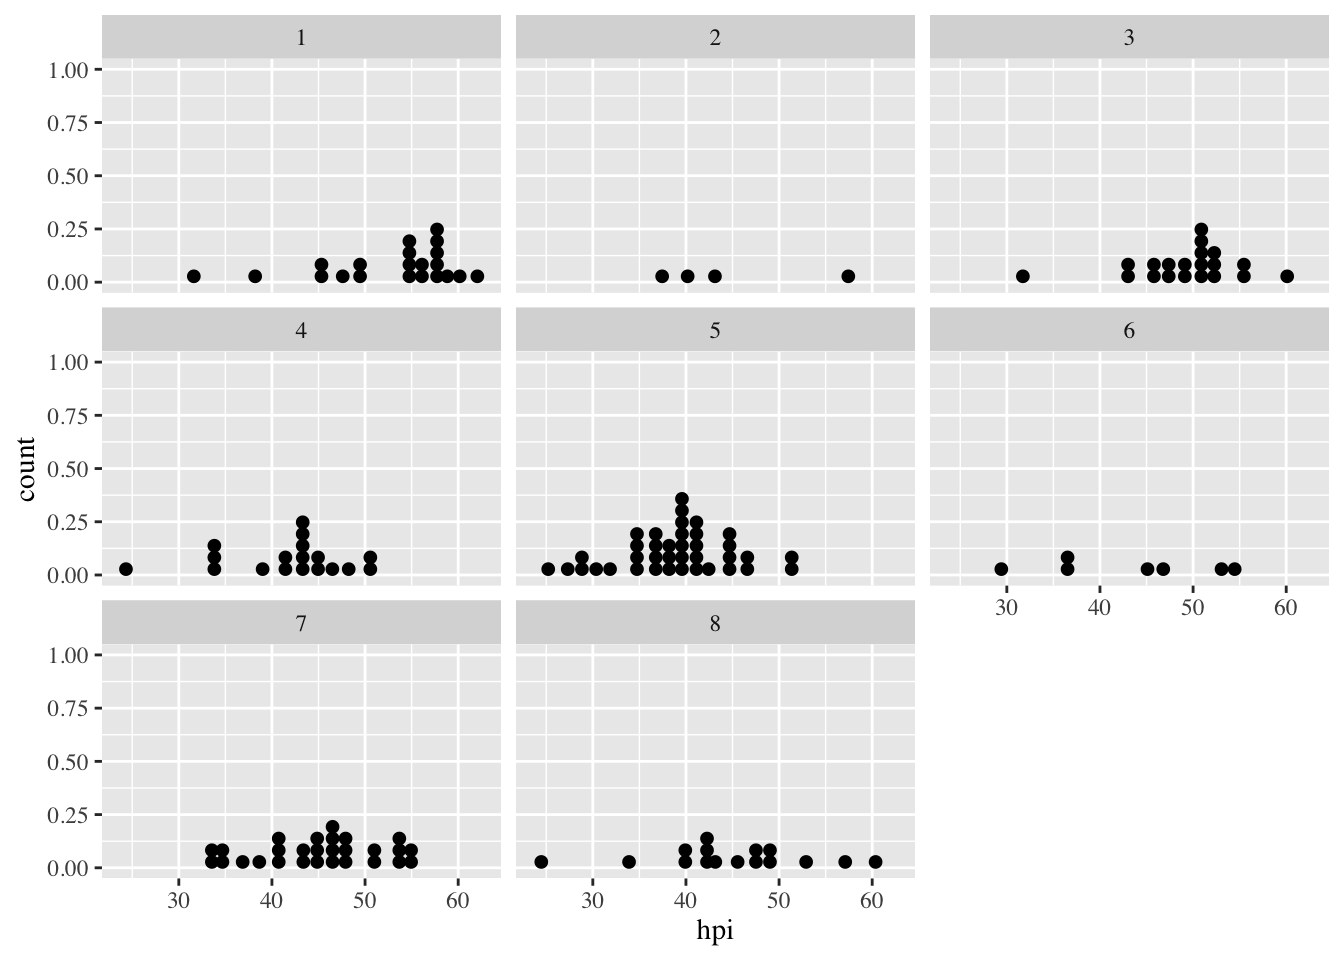
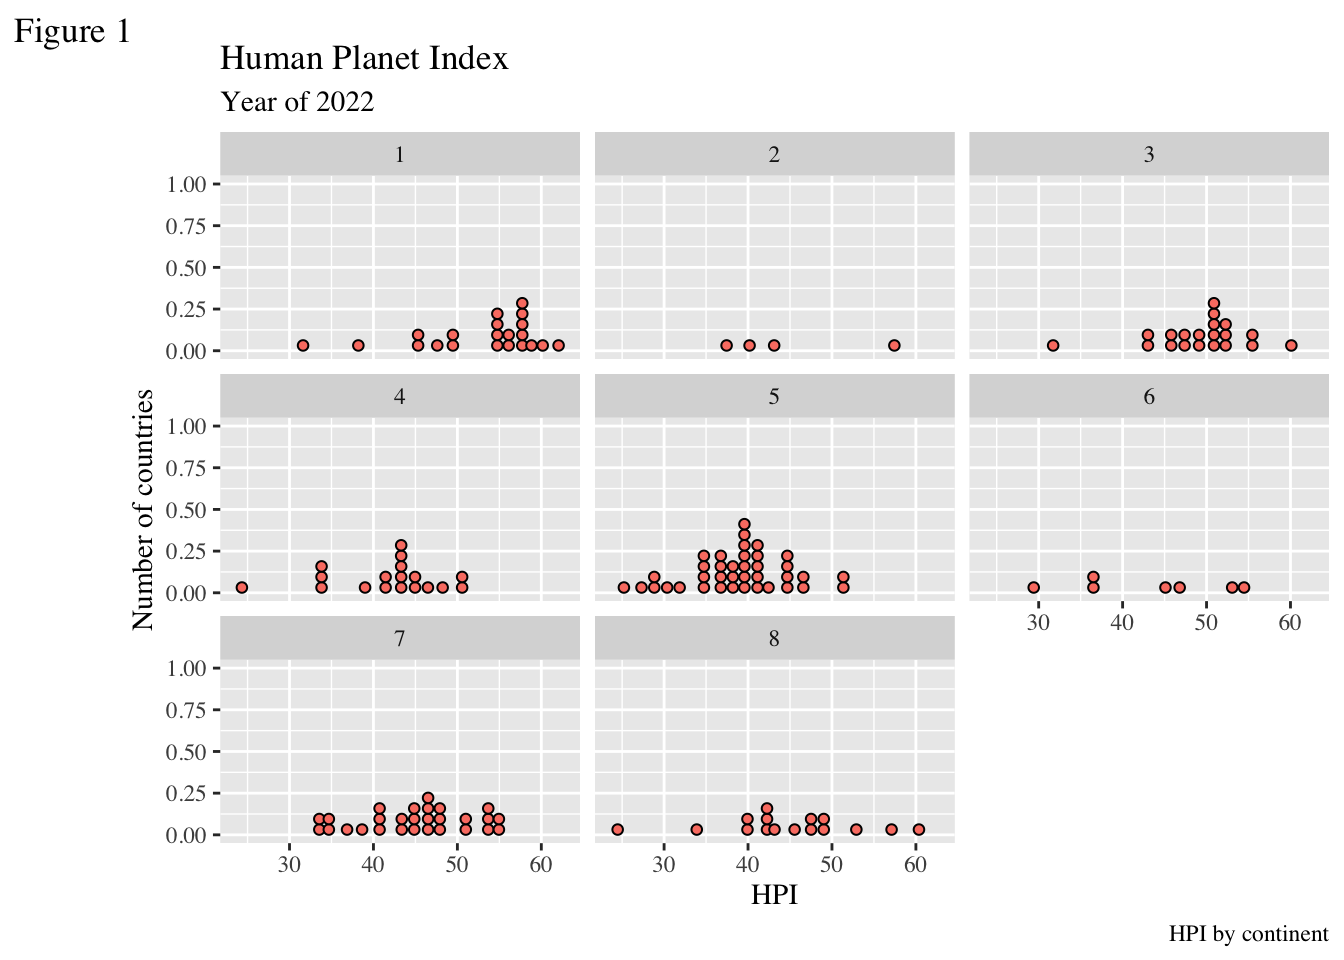
added Lizzie's additions to the edited graphs of Assignment04

diff --git a/assignment04.html b/assignment04.html
@@ -317,9 +317,18 @@ code span.wa { color: #60a0b0; font-weight: bold; font-style: italic; } /* Warni
 <span id="cb16-2"><a href="#cb16-2" aria-hidden="true" tabindex="-1"></a><span class="fu">loadfonts</span>()</span>
 <span id="cb16-3"><a href="#cb16-3" aria-hidden="true" tabindex="-1"></a></span>
 <span id="cb16-4"><a href="#cb16-4" aria-hidden="true" tabindex="-1"></a><span class="fu">ggplot</span>(hpi) <span class="sc">+</span> </span>
-<span id="cb16-5"><a href="#cb16-5" aria-hidden="true" tabindex="-1"></a>  <span class="fu">geom_dotplot</span>(<span class="fu">aes</span>(<span class="at">x=</span>hpi)) <span class="sc">+</span> </span>
-<span id="cb16-6"><a href="#cb16-6" aria-hidden="true" tabindex="-1"></a>  <span class="fu">facet_wrap</span>(<span class="fu">vars</span>(continent)) <span class="sc">+</span> </span>
-<span id="cb16-7"><a href="#cb16-7" aria-hidden="true" tabindex="-1"></a>  <span class="fu">theme</span>(<span class="at">text =</span> <span class="fu">element_text</span>(<span class="at">family=</span><span class="st">"Times"</span>))</span></code><button title="Copy to Clipboard" class="code-copy-button"><i class="bi"></i></button></pre></div>
+<span id="cb16-5"><a href="#cb16-5" aria-hidden="true" tabindex="-1"></a>  <span class="fu">geom_dotplot</span>(<span class="fu">aes</span>(<span class="at">x=</span>hpi),</span>
+<span id="cb16-6"><a href="#cb16-6" aria-hidden="true" tabindex="-1"></a>               <span class="at">color =</span> <span class="st">"black"</span>,</span>
+<span id="cb16-7"><a href="#cb16-7" aria-hidden="true" tabindex="-1"></a>               <span class="at">fill =</span> <span class="st">"salmon"</span>) <span class="sc">+</span> </span>
+<span id="cb16-8"><a href="#cb16-8" aria-hidden="true" tabindex="-1"></a>  <span class="fu">facet_wrap</span>(<span class="fu">vars</span>(continent)) <span class="sc">+</span> </span>
+<span id="cb16-9"><a href="#cb16-9" aria-hidden="true" tabindex="-1"></a>  <span class="fu">theme</span>(<span class="at">text =</span> <span class="fu">element_text</span>(<span class="at">family=</span><span class="st">"Times"</span>)) <span class="sc">+</span></span>
+<span id="cb16-10"><a href="#cb16-10" aria-hidden="true" tabindex="-1"></a>  <span class="fu">labs</span>(<span class="at">title =</span> <span class="st">"Human Planet Index"</span>,</span>
+<span id="cb16-11"><a href="#cb16-11" aria-hidden="true" tabindex="-1"></a>       <span class="at">subtitle =</span> <span class="st">"Year of 2022"</span>,</span>
+<span id="cb16-12"><a href="#cb16-12" aria-hidden="true" tabindex="-1"></a>       <span class="at">caption =</span> <span class="st">"HPI by continent"</span>,</span>
+<span id="cb16-13"><a href="#cb16-13" aria-hidden="true" tabindex="-1"></a>       <span class="at">tag =</span> <span class="st">"Figure 1"</span>,</span>
+<span id="cb16-14"><a href="#cb16-14" aria-hidden="true" tabindex="-1"></a>       <span class="at">x =</span> <span class="st">"HPI"</span>,</span>
+<span id="cb16-15"><a href="#cb16-15" aria-hidden="true" tabindex="-1"></a>       <span class="at">y =</span> <span class="st">"Number of countries"</span>,</span>
+<span id="cb16-16"><a href="#cb16-16" aria-hidden="true" tabindex="-1"></a>       <span class="at">colour =</span> <span class="st">"GrandBudapest"</span>)</span></code><button title="Copy to Clipboard" class="code-copy-button"><i class="bi"></i></button></pre></div>
 <div class="cell-output cell-output-stderr">
 <pre><code>Bin width defaults to 1/30 of the range of the data. Pick better value with `binwidth`.</code></pre>
 </div>
@@ -328,17 +337,23 @@ code span.wa { color: #60a0b0; font-weight: bold; font-style: italic; } /* Warni
 </div>
 <div class="sourceCode cell-code" id="cb18"><pre class="sourceCode r code-with-copy"><code class="sourceCode r"><span id="cb18-1"><a href="#cb18-1" aria-hidden="true" tabindex="-1"></a><span class="fu">ggplot</span>(test) <span class="sc">+</span> </span>
 <span id="cb18-2"><a href="#cb18-2" aria-hidden="true" tabindex="-1"></a>  <span class="fu">geom_histogram</span>(<span class="fu">aes</span>(<span class="at">x=</span>height), </span>
-<span id="cb18-3"><a href="#cb18-3" aria-hidden="true" tabindex="-1"></a>                 <span class="at">color=</span><span class="st">'steelblue4'</span>, </span>
-<span id="cb18-4"><a href="#cb18-4" aria-hidden="true" tabindex="-1"></a>                 <span class="at">fill=</span><span class="st">'steelblue3'</span>, </span>
+<span id="cb18-3"><a href="#cb18-3" aria-hidden="true" tabindex="-1"></a>                 <span class="at">color=</span><span class="st">'black'</span>, </span>
+<span id="cb18-4"><a href="#cb18-4" aria-hidden="true" tabindex="-1"></a>                 <span class="at">fill=</span><span class="st">'salmon'</span>, </span>
 <span id="cb18-5"><a href="#cb18-5" aria-hidden="true" tabindex="-1"></a>                 <span class="at">breaks=</span><span class="fu">unique</span>(test<span class="sc">$</span>weight)) <span class="sc">+</span></span>
-<span id="cb18-6"><a href="#cb18-6" aria-hidden="true" tabindex="-1"></a>  <span class="fu">theme</span>(<span class="at">text =</span> <span class="fu">element_text</span>(<span class="at">family=</span><span class="st">"Times"</span>))</span></code><button title="Copy to Clipboard" class="code-copy-button"><i class="bi"></i></button></pre></div>
+<span id="cb18-6"><a href="#cb18-6" aria-hidden="true" tabindex="-1"></a>  <span class="fu">theme</span>(<span class="at">text =</span> <span class="fu">element_text</span>(<span class="at">family=</span><span class="st">"Times"</span>)) <span class="sc">+</span></span>
+<span id="cb18-7"><a href="#cb18-7" aria-hidden="true" tabindex="-1"></a>  <span class="fu">labs</span>(<span class="at">title =</span> <span class="st">"Test Data"</span>,</span>
+<span id="cb18-8"><a href="#cb18-8" aria-hidden="true" tabindex="-1"></a>       <span class="at">subtitle =</span> <span class="st">"Year of 2022"</span>,</span>
+<span id="cb18-9"><a href="#cb18-9" aria-hidden="true" tabindex="-1"></a>       <span class="at">caption =</span> <span class="st">"Dummy data"</span>,</span>
+<span id="cb18-10"><a href="#cb18-10" aria-hidden="true" tabindex="-1"></a>       <span class="at">tag =</span> <span class="st">"Figure 2"</span>,</span>
+<span id="cb18-11"><a href="#cb18-11" aria-hidden="true" tabindex="-1"></a>       <span class="at">x =</span> <span class="st">"Height"</span>,</span>
+<span id="cb18-12"><a href="#cb18-12" aria-hidden="true" tabindex="-1"></a>       <span class="at">y =</span> <span class="st">"Number of people"</span>)</span></code><button title="Copy to Clipboard" class="code-copy-button"><i class="bi"></i></button></pre></div>
 <div class="cell-output-display">
 <p><img src="assignment04_files/figure-html/unnamed-chunk-2-2.png" class="img-fluid" width="672"></p>
 </div>
 </div>
 <section id="synergy-report" class="level4">
 <h4 class="anchored" data-anchor-id="synergy-report">Synergy Report</h4>
-<p>Our team members worked collaboratively to produce these plots. The bar chart with varying widths was spearheaded by Vikrant and Namrta, and the facetted charts were primarily done by Eli and Seongdeok. Additionally, fonts were added by Vikrant, titles were added by Lizzie, Eli merged these additions with the main plot code, and Namrta had the idea to use simple custom data to aid in plot creation.</p>
+<p>Our team members worked collaboratively to produce these plots. The bar chart with varying widths was spearheaded by Vikrant and Namrta, and the facetted charts were primarily done by Eli and Seongdeok. Additionally, fonts were added by Vikrant; titles, captions, themes, colors, and axis labels were added by Lizzie; Eli merged these additions with the main plot code; and Namrta had the idea to use simple custom data to aid in plot creation.</p>
 
 
 </section>

diff --git a/index.html b/index.html
@@ -218,7 +218,7 @@ code span.wa { color: #60a0b0; font-weight: bold; font-style: italic; } /* Warni
 </header>
 
 <p>I am a Master’s student studying Applied Cognition and Neuroscience at the University of Texas at Dallas, specializing in Intelligent Systems. I am especially interested in adversarial artificial intelligence and the role machine learning can play in assistive technology for neurodiverse people.</p>
-<p><em>Website last updated: 2022-10-04</em></p>
+<p><em>Website last updated: 2022-10-06</em></p>
 <section id="contact" class="level3">
 <h3 class="anchored" data-anchor-id="contact">Contact</h3>
 <p><a href="mailto:axe190014@utdallas.edu">axe190014@utdallas.edu</a></p>
